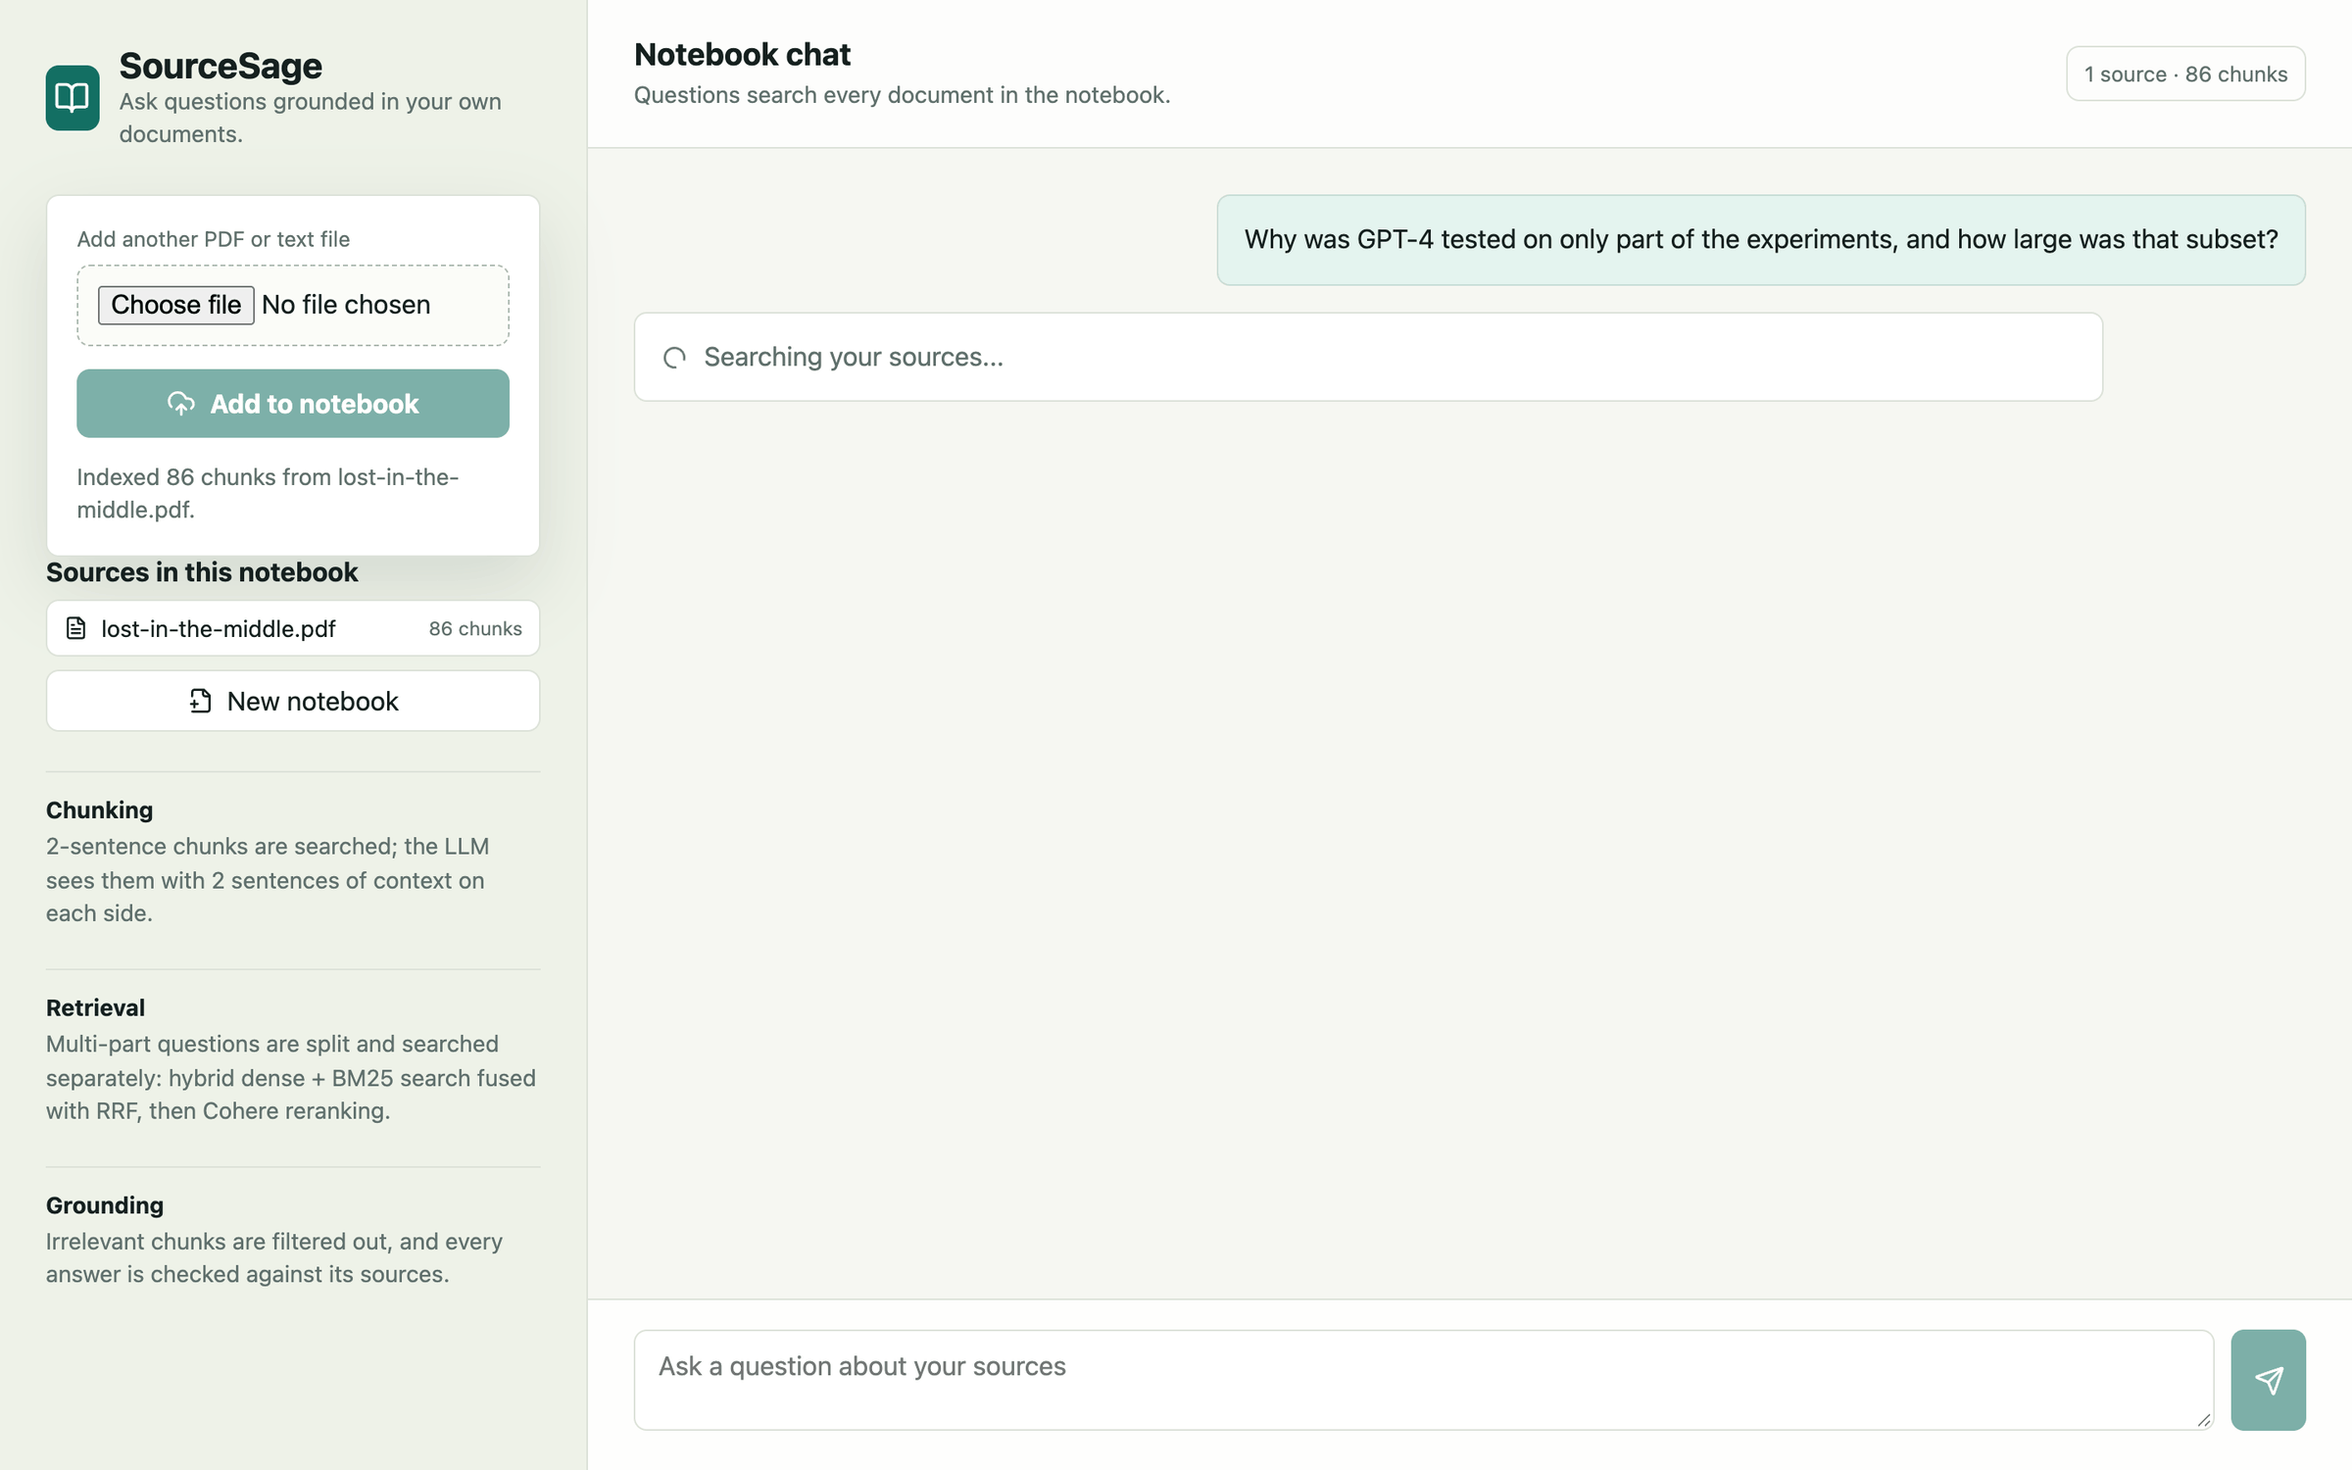
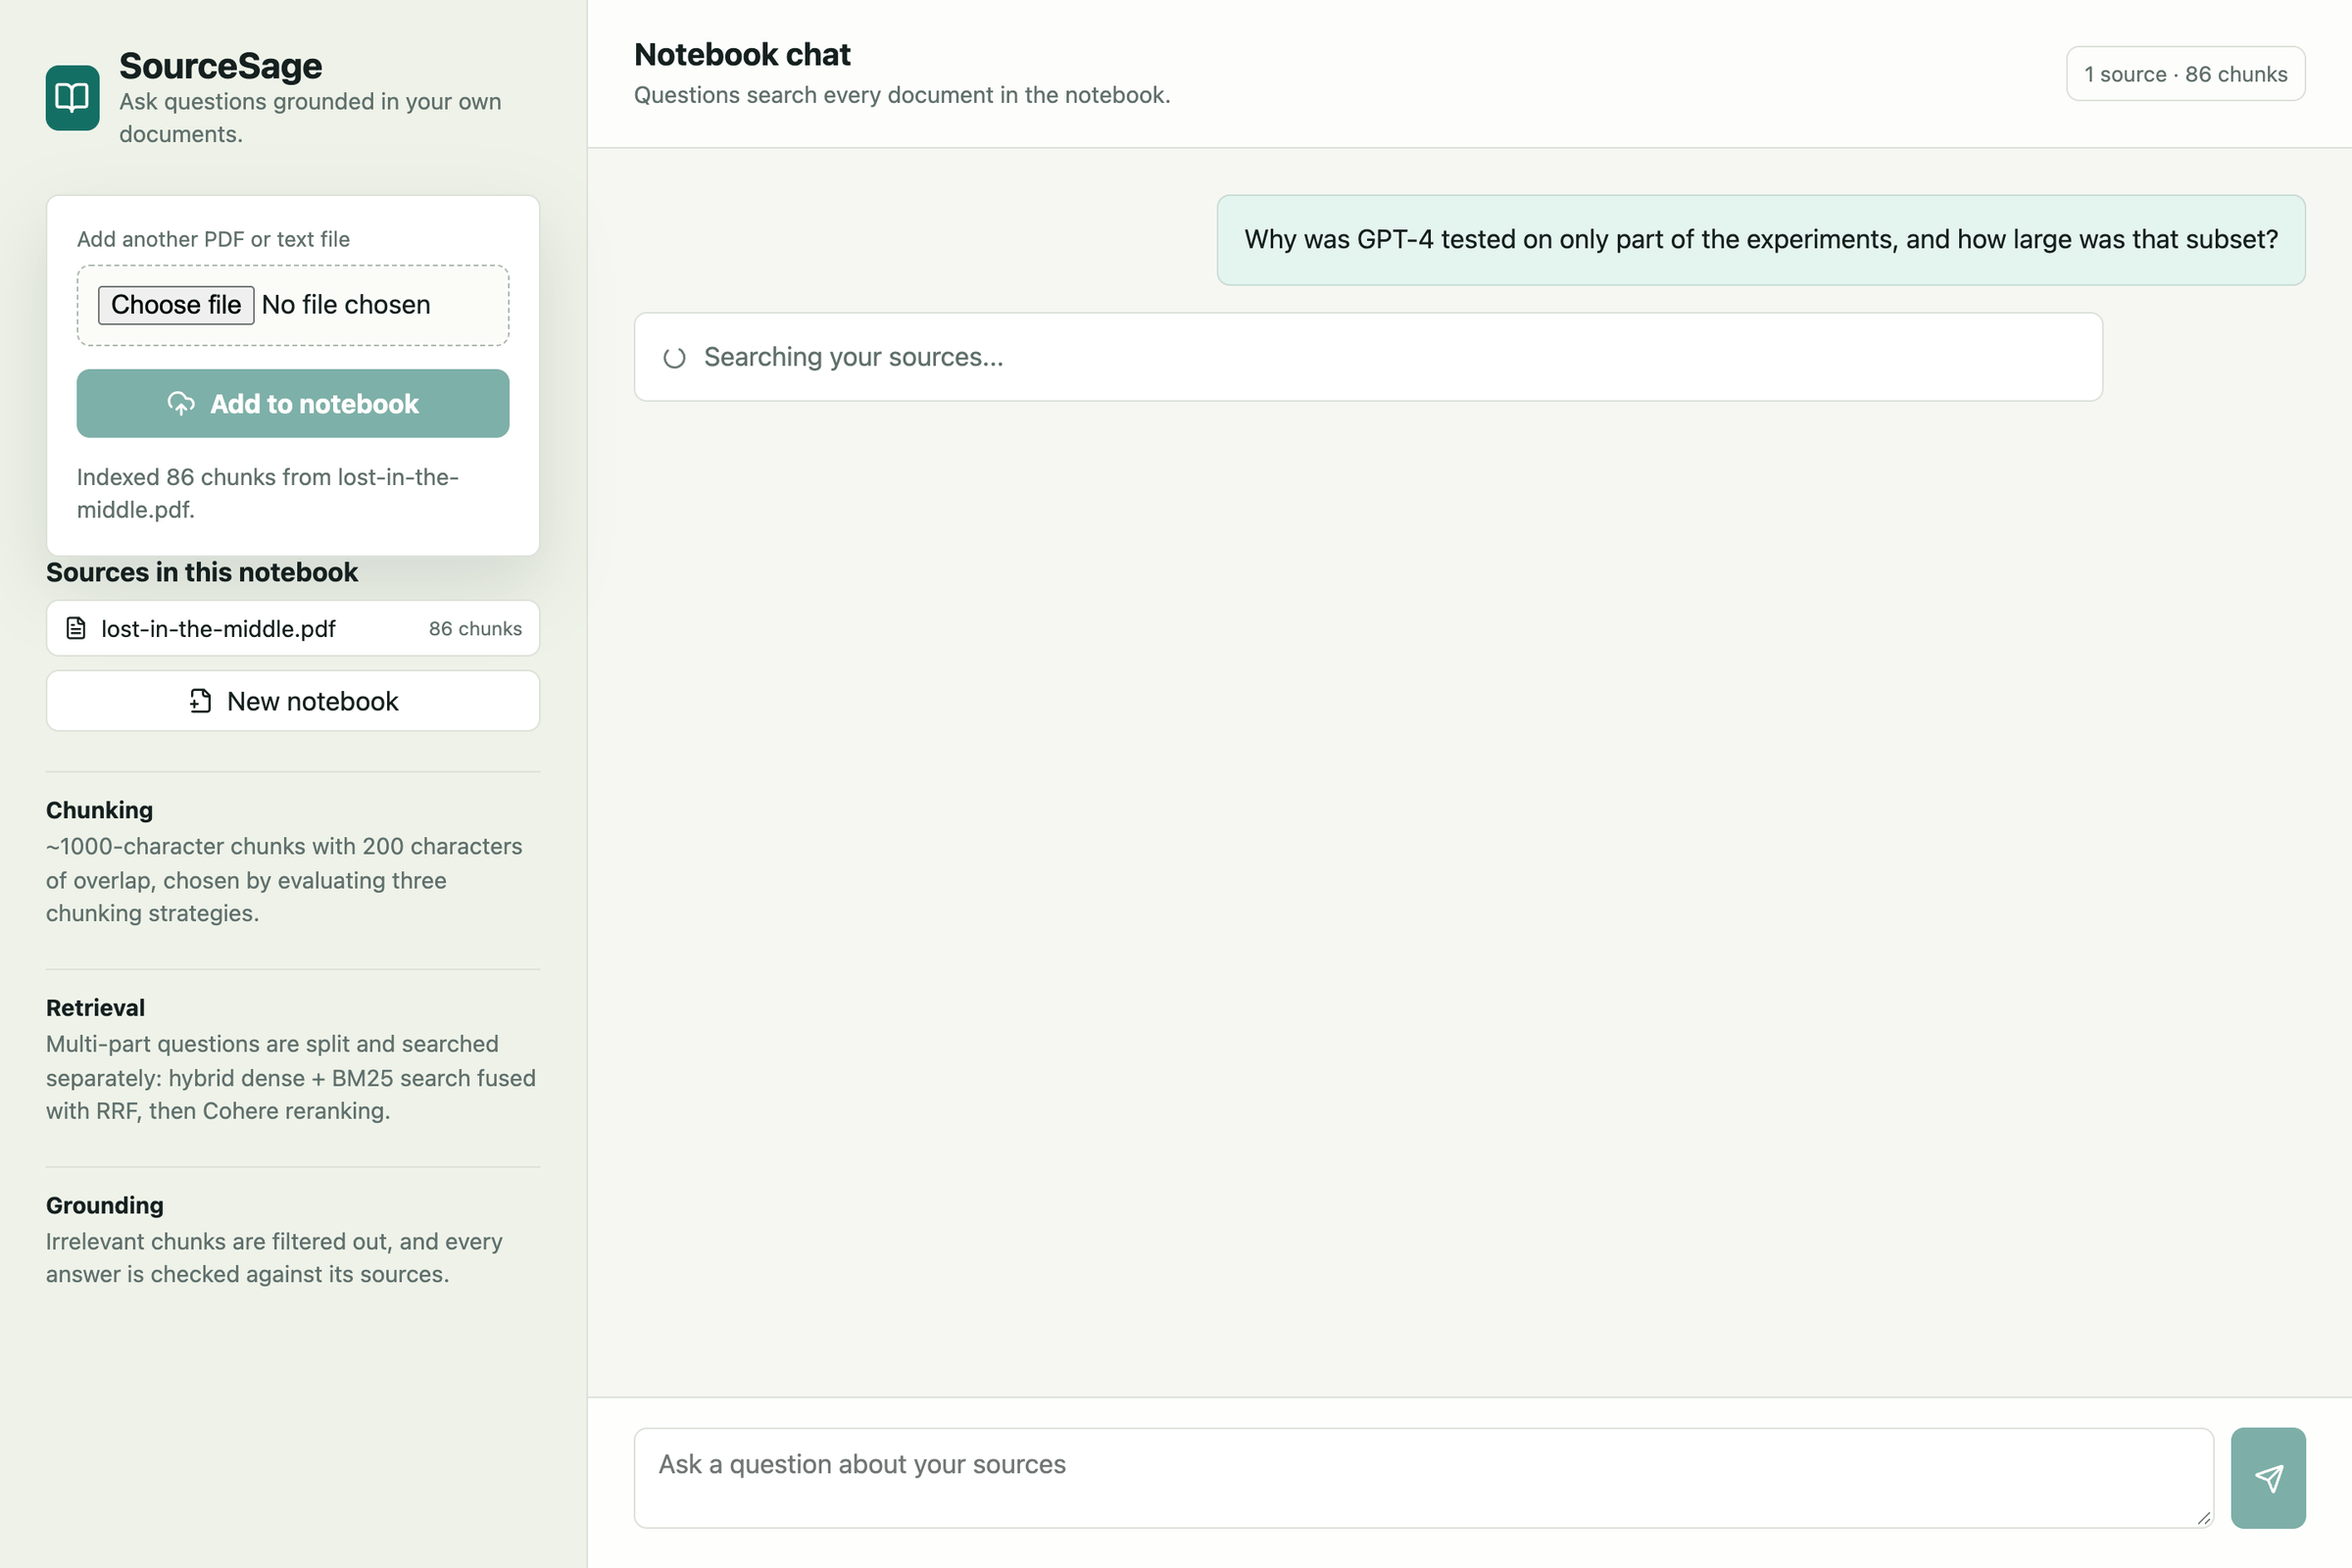
docs: refresh screenshots after answer-formatting fixes, link progress image
Re-captured from the saved API responses (no new Cohere/Groq calls) so the
bold answer text and the corrected Chunking tip show.

diff --git a/README.md b/README.md
@@ -8,6 +8,10 @@
 
 *A two-part question over an 18-page research paper: the answer cites its sources, passes the grounding check, and shows each retrieved passage with its page and relevance score.*
 
+<img src="docs/screenshot-progress.png" alt="SourceSage showing its live stage progress while answering" width="480">
+
+*Live stage progress while it works.*
+
 Upload PDFs or text files into a notebook and ask questions across them. Every answer comes only from your documents and shows the passages it used.
 
 SourceSage is a NotebookLM-style retrieval-augmented generation (RAG) app. Every stage of its pipeline was chosen by **measuring it**: a labeled evaluation set of 56 questions over two real documents scores each retrieval and answering configuration. See [eval/RESULTS.md](eval/RESULTS.md) for the numbers and [DECISIONS.md](DECISIONS.md) for the reasoning.
